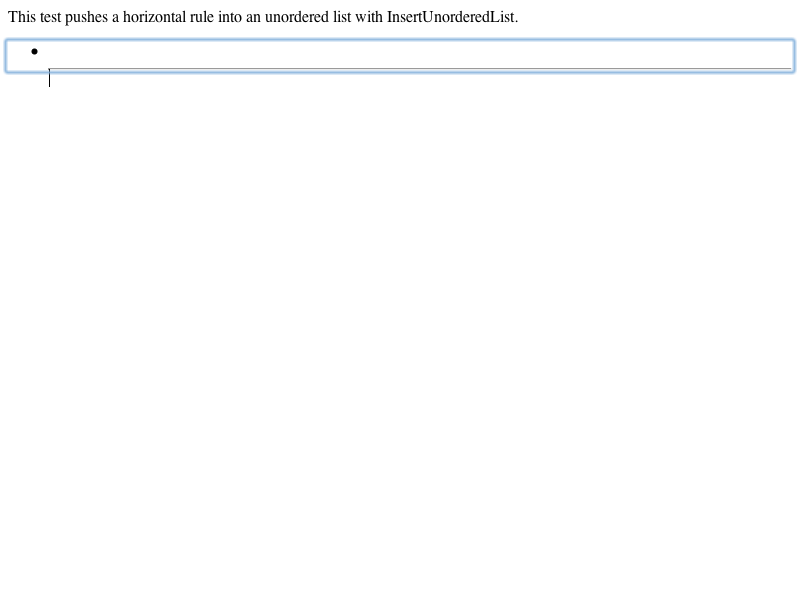
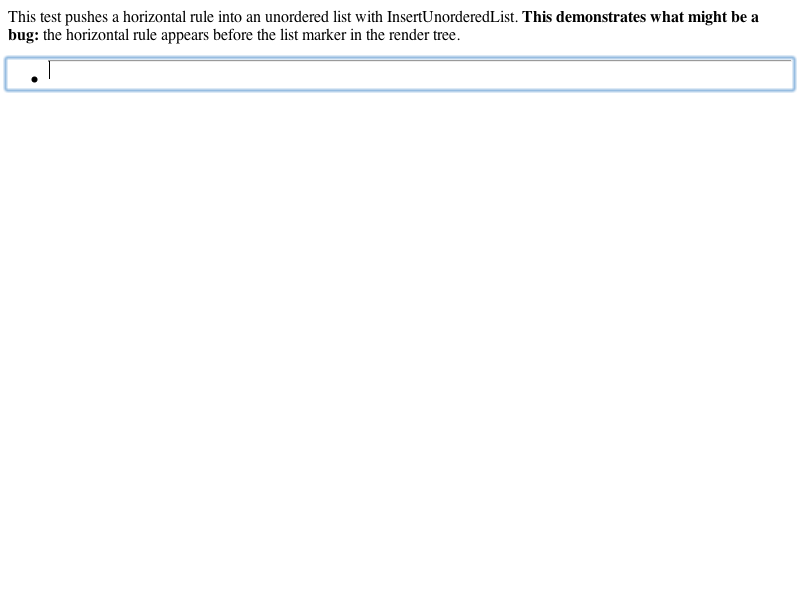
LayoutTests:
Reviewed by darin
        
        <rdar://problem/5136770> 
        Gmail Editor: Hang when turning a particular multi-line selection into a list

        Demonstrates the bug:
        * editing/execCommand/5136770-expected.checksum: Added.
        * editing/execCommand/5136770-expected.png: Added.
        * editing/execCommand/5136770-expected.txt: Added.
        * editing/execCommand/5136770.html: Added.
        
        Added placeholders in empty list items:
        * editing/execCommand/4747450-expected.txt:
        * editing/execCommand/insert-list-empty-div-expected.txt:
        * editing/execCommand/4917055-expected.txt:
        
        A horizontal rule pushed into a list item appears *before*
        the list marker in the render tree, although, the new results 
        look more correct (13376):
        * editing/execCommand/create-list-with-hr-expected.checksum:
        * editing/execCommand/create-list-with-hr-expected.png:
        * editing/execCommand/create-list-with-hr-expected.txt:
        * editing/execCommand/create-list-with-hr.html:

WebCore:

        Reviewed by darin

        <rdar://problem/5136770> 
        Gmail Editor: Hang when turning a particular multi-line selection into a list
        
        When InsertListCommand pushes content into list items, 
        it creates an empty list item and then calls moveParagraphs.  
        But moveParagraphs' selection preservation code fails when
[…]

Changed region(s): [[0.0, 0.0, 1.0, 0.18]]

diff --git a/LayoutTests/editing/execCommand/5136770.html b/LayoutTests/editing/execCommand/5136770.html
@@ -1,0 +1,15 @@
+<p>This tests for a hang when performing InsertUnorderedList.</p>
+<div contenteditable="true">
+<div>There should be two empty unordered list items below.</div>
+<div id="start"><br></div>
+<div><br></div>
+<div id="end">This should be an unordered list item.</div>
+</div>
+
+<script>
+var selection = window.getSelection();
+var div = document.getElementById("div");
+selection.setBaseAndExtent(start, 0, end, end.childNodes.length);
+
+document.execCommand("InsertUnorderedList");
+</script>

diff --git a/LayoutTests/editing/execCommand/create-list-with-hr.html b/LayoutTests/editing/execCommand/create-list-with-hr.html
@@ -2,7 +2,7 @@
 if (window.layoutTestController)
      layoutTestController.dumpEditingCallbacks();
 </script>
-<p>This test pushes a horizontal rule into an unordered list with InsertUnorderedList.</p>
+<p>This test pushes a horizontal rule into an unordered list with InsertUnorderedList. <b>This demonstrates what might be a bug:</b> the horizontal rule appears before the list marker in the render tree.</p>
 <div contenteditable="true" id="div"><hr></div>
 
 <script>

diff --git a/WebCore/editing/InsertListCommand.cpp b/WebCore/editing/InsertListCommand.cpp
@@ -170,6 +170,8 @@ void InsertListCommand::doApply()
         VisiblePosition previousPosition = start.previous(true);
         VisiblePosition nextPosition = end.next(true);
         RefPtr<Element> listItemElement = createListItemElement(document());
+        RefPtr<Element> placeholder = createBreakElement(document());
+        appendNode(placeholder.get(), listItemElement.get());
         Node* previousList = outermostEnclosingList(previousPosition.deepEquivalent().node());
         Node* nextList = outermostEnclosingList(nextPosition.deepEquivalent().node());
         if (previousList && !previousList->hasTagName(listTag))
@@ -198,7 +200,7 @@ void InsertListCommand::doApply()
             
             insertNodeAt(listElement.get(), start.deepEquivalent().node(), start.deepEquivalent().offset());
         }
-        moveParagraph(start, end, VisiblePosition(Position(listItemElement.get(), 0)), true);
+        moveParagraph(start, end, VisiblePosition(Position(placeholder.get(), 0)), true);
         if (nextList && previousList)
             mergeIdenticalElements(static_cast<Element*>(previousList), static_cast<Element*>(nextList));
     }
